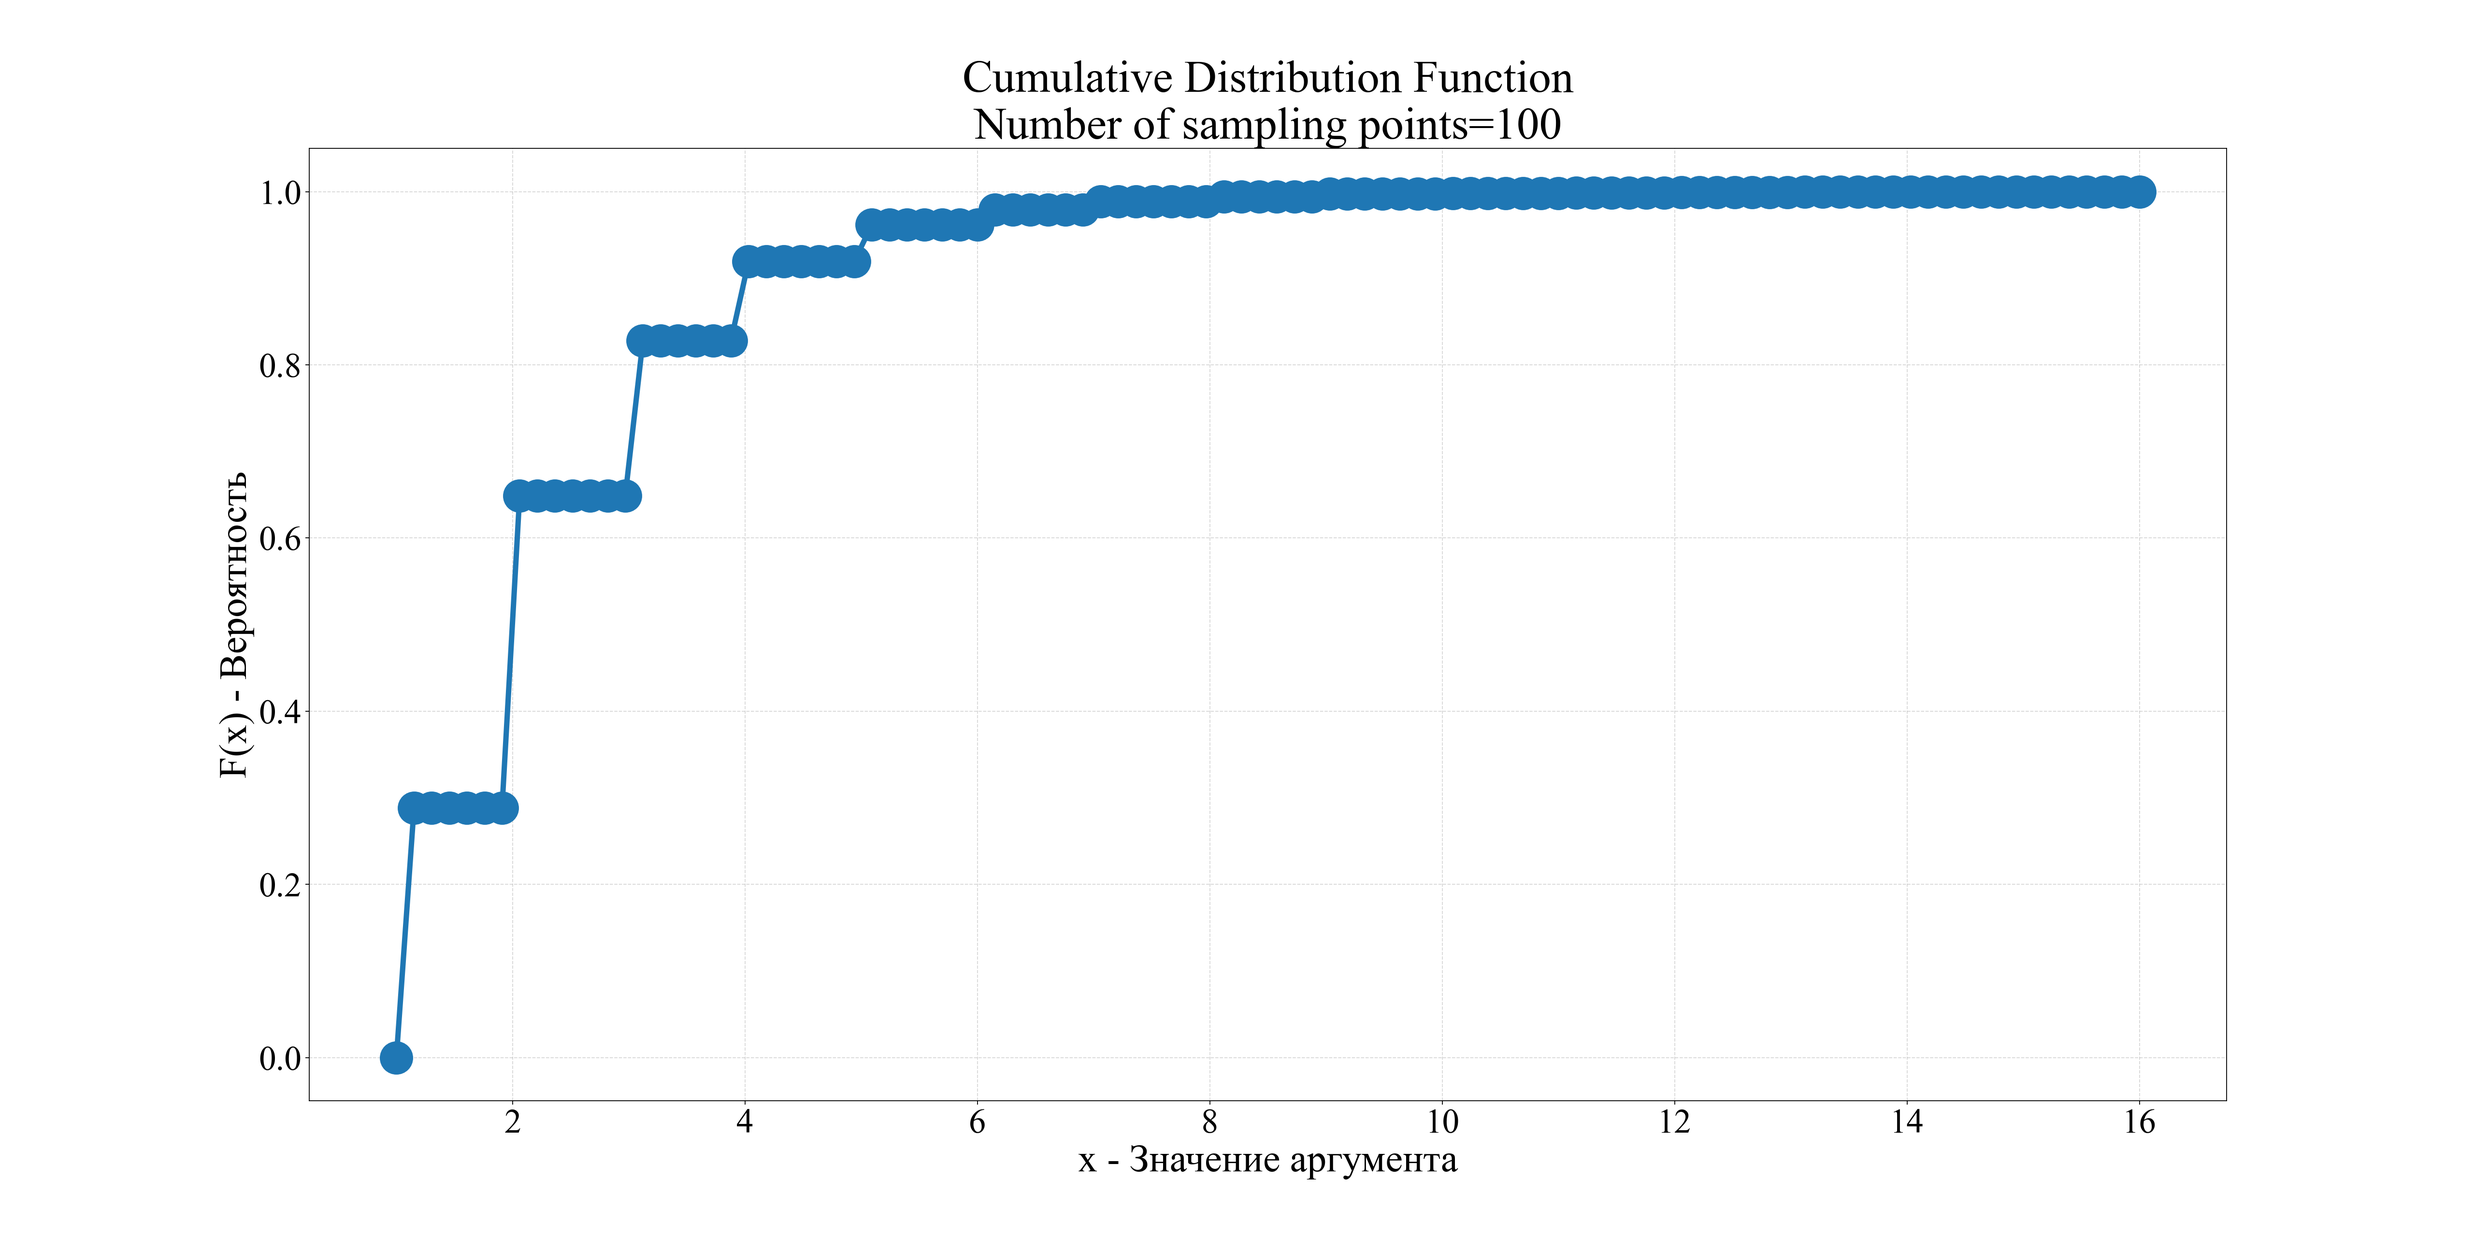
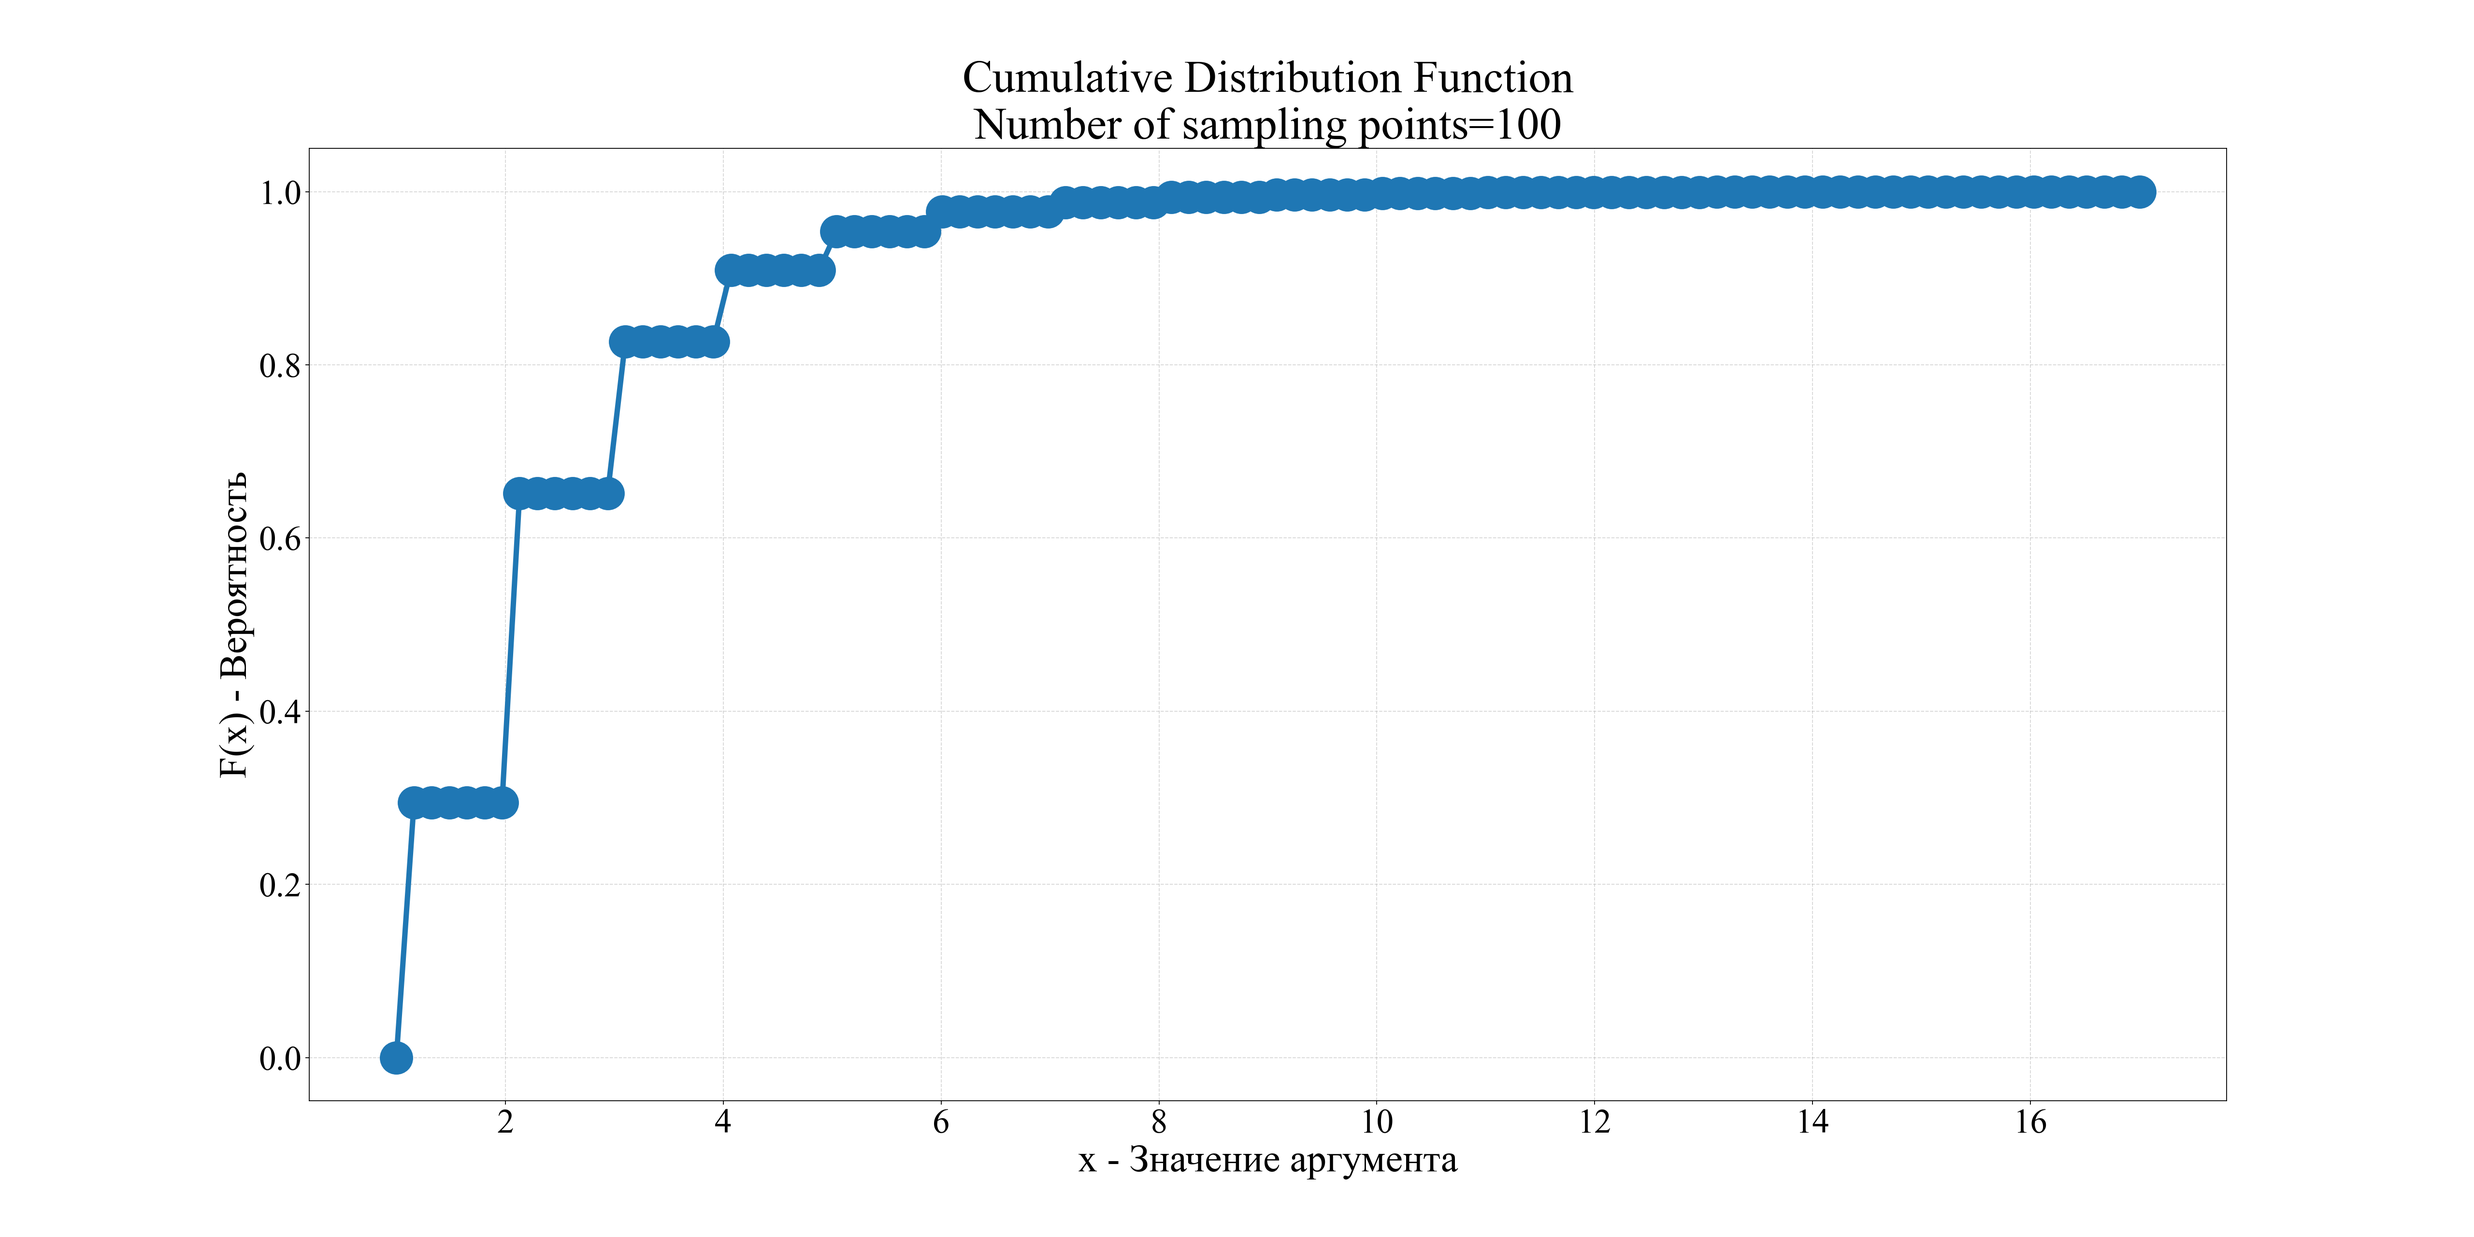
增加 统计划分

Changed region(s): [[0.25, 0.1562, 0.4375, 0.3438], [0.1562, 0.625, 0.2188, 0.6875], [0.25, 0.375, 0.2812, 0.4062]]

diff --git a/003 - lab2+/st_method.py b/003 - lab2+/st_method.py
@@ -1,0 +1,203 @@
+# ------*------ coding: utf-8 ------*------
+# @Time    : 2022/2/13 20:29
+# @Author  : 冰糖雪狸 (NekoSilverfox)
+# @Project : Statistica-model
+# @File    : main.py
+# @Software: PyCharm
+# @Github  ：https://github.com/NekoSilverFox
+# -----------------------------------------
+
+import numpy as np
+from matplotlib import pyplot as plt
+
+TITLE_FONT_SIZE = 42
+LABEL_FONT_SIZE = 36
+TICK_FONT_SIZE = 32
+FONT = 'Times New Roman'
+
+
+def autocorrelation(ndarry: np.ndarray) -> np.ndarray:
+    """
+    计算自相关系数，并返回对应数组
+    :param ndarry:要计算的数组
+    :return: 自相关系数的 ndarry
+    """
+    if ndarry is None or ndarry.size == 0:
+        print('Array can not be empty')
+        return None
+
+    denominator = ndarry.var() * ndarry.size  # 分母
+    M = ndarry.mean()  # 方差
+    size = ndarry.size
+    arr_auto = []
+    for f in range(1, size):
+        numerator = sum((ndarry[:size - f] - M) * (ndarry[f:] - M))  # 分子
+        arr_auto.append(numerator / denominator)
+
+    # print(np.array(arr_auto))
+    return np.array(arr_auto)
+
+
+def plot_autocorrelation(ndarry: np.ndarray) -> np.ndarray:
+    """
+    绘制 autocorrelation ndarry 的为柱状图
+    :param ndarry: 数组
+    :return: None
+    """
+    if ndarry is None or ndarry.size == 0:
+        print('Array can not be empty')
+        return None
+
+    x = range(1, ndarry.size + 1, 1)
+    plt.figure(figsize=(32, 16), dpi=160)
+    print(len(x))
+    print(ndarry)
+    plt.bar(x, ndarry)
+
+    plt.title('Autocorrelation    n=' + (ndarry.size + 1).__str__(),
+              fontdict={'family': FONT, 'size': TITLE_FONT_SIZE})
+    plt.xlabel('f', fontdict={'family': FONT, 'size': LABEL_FONT_SIZE})
+    plt.ylabel('K(f)', fontdict={'family': FONT, 'size': LABEL_FONT_SIZE})
+    plt.xticks(fontproperties=FONT, size=TICK_FONT_SIZE)
+    plt.yticks(fontproperties=FONT, size=TICK_FONT_SIZE)
+    # y_ticks = np.linspace(start=-1.0, stop=1.0, num=20)
+    # plt.yticks(y_ticks)
+    plt.grid(linestyle='--', alpha=0.5)
+
+    plt.savefig('./result/' + (ndarry.size + 1).__str__() + '.png')
+    plt.show()
+
+
+def get_cdf(ndarry: np.ndarray) -> np.ndarray:
+    """
+    累积分布函数（英语：Cumulative Distribution Function、CDF），又叫分布函数，是概率密度函数的积分，能完整描述一个实随机变量X的概率分布。
+    F(x)是分布函数，F(x)的取值表示变量小于 x 的概率是多少。比如说 F(x)=0.85，x=0.7，那么意思是随机变量小于 0.7 的概率为 0.85
+
+    Ru：Эмпирическая интегральная функция распределения
+    :param ndarry: 变量值数组
+    :return: 构建的分布函数 cdf ndarry
+    """
+    if ndarry is None or ndarry.size == 0:
+        print('Array can not be empty')
+        return None
+
+    arr_cdf = []
+    arr_step = np.linspace(start=ndarry.min(), stop=ndarry.max(), num=100)
+    for i in arr_step:
+        arr_cdf.append(np.count_nonzero(ndarry < i) / ndarry.size)
+
+    # print(arr_cdf)
+    return np.array(arr_cdf)
+
+
+def plot_cdf(cdf_ndarry: np.ndarray, kind: str, x_tick_min: int, x_tick_max: int, save_path: str):
+    """
+    绘制 cdf 为散点图
+    :param cdf_ndarry:  cdf ndarry
+    :param kind: 绘制图像的类型，可以为 plot | scatter | bar
+    :param x_tick_min: x 轴坐标的最小值（应该最初数组的最小值）
+    :param x_tick_max: x 轴坐标的最大值（应该最初数组的最大值）
+    :param save_path: 图像存储路径
+    :return: None
+    """
+
+    if cdf_ndarry is None or cdf_ndarry.size == 0:
+        print('Array can not be empty')
+        return None
+
+    x = np.linspace(start=x_tick_min, stop=x_tick_max, num=100)
+    plt.figure(figsize=(32, 16), dpi=160)
+
+    if kind == 'plot':
+        plt.plot(x, cdf_ndarry, linewidth=5, marker='o', markersize=30)
+    elif kind == 'scatter':
+        plt.scatter(x, cdf_ndarry, s=300)
+    elif kind == 'bar':
+        plt.bar(x, cdf_ndarry)
+    else:
+        print('`kind` should be plot | scatter | bar')
+        return
+
+    plt.title('Cumulative Distribution Function\n'
+              'Number of sampling points=' + cdf_ndarry.size.__str__(),
+              fontdict={'family': FONT, 'size': TITLE_FONT_SIZE})
+    plt.xlabel('x - Значение аргумента', fontdict={'family': FONT, 'size': LABEL_FONT_SIZE})
+    plt.ylabel('F(x) - Вероятность', fontdict={'family': FONT, 'size': LABEL_FONT_SIZE})
+    plt.xticks(fontproperties=FONT, size=TICK_FONT_SIZE)
+    plt.yticks(fontproperties=FONT, size=TICK_FONT_SIZE)
+    plt.grid(linestyle='--', alpha=0.5)
+
+    plt.savefig(save_path)
+    plt.show()
+
+
+def get_pdf(ndarry: np.ndarray, cut_num: int) -> np.ndarray:
+    """ 获取概率密度函数的 ndarry
+    在数学中，连续型随机变量的概率密度函数（Probability density function，简写作PDF [1]），
+    在不致于混淆时可简称为密度函数，是一个描述这个随机变量的输出值，在某个确定的取值点附近的可能性的函数。
+    图中，横轴为随机变量的取值，纵轴为概率密度函数的值，而随机变量的取值落在某个区域内的概率为概率密度函数
+    在这个区域上的积分。当概率密度函数存在的时候，累积分布函数是概率密度函数的积分
+
+    f(x)是概率密度函数，定义是取值落在某个区域之内的概率则为概率密度函数在这个区域上的积分
+
+    :param cut_num: 切片为几个区间
+    :param ndarry: ndarry: 变量值数组
+    :return: 构建的分布函数 pdf ndarry
+    """
+    if ndarry is None or ndarry.size == 0:
+        print('Array can not be empty')
+        return None
+
+    arr_pdf = []
+    arr_step = np.linspace(start=ndarry.min(), stop=ndarry.max(), num=cut_num)
+    for i in range(cut_num - 1):
+        arr_pdf.append(
+            np.count_nonzero(np.logical_and(ndarry > arr_step[i], ndarry < arr_step[i + 1])) / ndarry.size)
+
+    print(arr_pdf)
+    return np.array(arr_pdf)
+
+
+def plot_pdf(pdf_ndarry: np.ndarray, kind: str, x_tick_min: int, x_tick_max: int,
+             y_tick_min: int, y_tick_max: int, cut_num: int, save_path: str):
+    """
+    绘制 cdf 为图
+    :param pdf_ndarry: pdf ndarry
+    :param kind: 绘制图像的类型，可以为 plot | scatter | bar
+    :param x_tick_min: x 轴坐标的最小值（应该最初数组的最小值）
+    :param x_tick_max: x 轴坐标的最大值（应该最初数组的最大值）
+    :param y_tick_min: y 轴坐标的最小值（应该最初数组的最小值）
+    :param y_tick_max: y 轴坐标的最大值（应该最初数组的最大值）
+    :param cut_num: 切片为几个区间
+    :param save_path: 图像存储路径
+    :return: None
+    """
+
+    if pdf_ndarry is None or pdf_ndarry.size == 0:
+        print('Array can not be empty')
+        return None
+
+    x = np.linspace(start=x_tick_min, stop=x_tick_max, num=cut_num - 1)
+    plt.figure(figsize=(32, 16), dpi=160)
+
+    if kind == 'plot':
+        plt.plot(x, pdf_ndarry, linewidth=5, marker='o', markersize=30)
+    elif kind == 'scatter':
+        plt.scatter(x, pdf_ndarry, s=300)
+    elif kind == 'bar':
+        plt.bar(x, pdf_ndarry)
+    else:
+        print('`kind` should be plot | scatter | bar')
+        return
+
+    plt.ylim(y_tick_min, y_tick_max)
+    plt.title('Probability Density Function\nInterval number=' + pdf_ndarry.size.__str__(),
+              fontdict={'family': FONT, 'size': TITLE_FONT_SIZE})
+    plt.xticks(fontproperties=FONT, size=TICK_FONT_SIZE)
+    plt.yticks(fontproperties=FONT, size=TICK_FONT_SIZE)
+    plt.xlabel('x - Значение аргумента', fontdict={'family': FONT, 'size': LABEL_FONT_SIZE})
+    plt.ylabel('f(x) - Вероятность', fontdict={'family': FONT, 'size': LABEL_FONT_SIZE})
+    plt.grid(linestyle='--', alpha=0.5)
+
+    plt.savefig(save_path)
+    plt.show()

diff --git a/003 - lab2+/main.py b/003 - lab2+/main.py
@@ -8,8 +8,11 @@
 # -----------------------------------------
 
 import numpy as np
+import pandas as pd
 import matplotlib.pyplot as plt
 from scipy.stats import chisquare
+from scipy import stats
+import st_method
 import math
 
 
@@ -50,7 +53,7 @@ def irnpoi(mu: int, size: int) -> np.ndarray:
 
 def irnpsn(mu: int, size: int) -> np.ndarray:
     """
-    【2.4.1】泊松分布（算法 1）
+    【2.4.2】泊松分布（算法 2）
     :param mu: int 类型
     :param size: 数组大小
     :return: 具有泊松分布的 numpy.ndarry
@@ -77,6 +80,23 @@ def irnpsn(mu: int, size: int) -> np.ndarray:
     return np.array(arr_irnpsn)
 
 
+def get_hist_arr(arr: np.ndarray, arr_cut_value: np.ndarray):
+    """
+    根据传入的数值数组进行分隔并统计分布数量
+    :param arr: 数组
+    :param arr_cut_value: 要分隔的区间数组；比如：[0, 3, 5, 8] 则统计：[0, 3), [3, 5), [5, 8)
+    :return: 统计结束后的数组
+    """
+    if arr is None or arr_cut_value is None:
+        raise ValueError
+
+    return pd.cut(x=arr, bins=arr_cut_value).value_counts().values
+
+
+
+
+
+
 def plot_poisson_hist(arr_poisson: np.ndarray, save_path: str):
     """
     绘制直方图并保存
@@ -88,7 +108,7 @@ def plot_poisson_hist(arr_poisson: np.ndarray, save_path: str):
     plt.hist(x=arr_poisson, bins=10, density=True)
     plt.grid(linestyle='--', alpha=0.5)
     plt.title('Закон Пуассона \n'
-              'λ=4 size=100',
+              'λ=4 Size=100 Section=10',
               fontdict={'family': FONT, 'size': TITLE_FONT_SIZE})
     plt.xlabel('x', fontdict={'family': FONT, 'size': LABEL_FONT_SIZE})
     plt.ylabel('P(x)', fontdict={'family': FONT, 'size': LABEL_FONT_SIZE})
@@ -101,25 +121,54 @@ def plot_poisson_hist(arr_poisson: np.ndarray, save_path: str):
 
 if __name__ == '__main__':
 
-    print('>' * 50, '\nirnpoi(mu=4, size=100):')
-    arr_poi = irnpoi(mu=4, size=100)
-    print('\tmin: ', arr_poi.min(), '\n\tmax: ', arr_poi.max())
+    print('numpy 泊松分布：')
+    arr_obs_poisson = np.random.poisson(lam=4, size=100)
+    pd.Series(arr_obs_poisson).sort_values().plot(kind='hist')
 
-    chi_2 = chisquare(arr_poi)
-    print('chi_2: ', chi_2[0])
+    arr_obs_hist = get_hist_arr(arr=arr_obs_poisson, arr_cut_value=np.array(range(16)))  # [0, 16)
 
-    plot_poisson_hist(arr_poisson=arr_poi,
-                      save_path='./result/1_irnpoi.png')
+    print('-' * 50)
+
+
+
+
+
+
+
+
+
+
+
+
+
+
+    #
+    # print('>' * 50, '\nirnpoi(mu=4, size=100):')
+    #
+    # crit = stats.chi2.ppf(q=0.05,
+    #                       df=9)
+    # print('临界值：', crit)
+    #
+    # arr_poi = irnpoi(mu=4, size=100)
+    # print('\tmin: ', arr_poi.min(), '\n\tmax: ', arr_poi.max())
+    #
+    # arr_pdf = st_method.get_pdf(arr_poi, cut_num=10)
+    # # chi_2 = chisquare(f_obs=arr_poi)
+    # chi_2 = chisquare(f_obs=arr_pdf)
+    # print('chi_2: ', chi_2)
+    #
+    # plot_poisson_hist(arr_poisson=arr_poi,
+    #                   save_path='./result/1_irnpoi.png')
 
     ############################################################################
-    print('\n\n', '>' * 50, '\nirnpoi(mu=4, size=100):')
-    arr_psn = irnpsn(mu=4, size=100)
-    print('\tmin: ', arr_psn.min(), '\n\tmax: ', arr_psn.max())
-
-    chi_2 = chisquare(arr_psn)
-    print('chi_2: ', chi_2[0])
-
-    plot_poisson_hist(arr_poisson=arr_psn,
-                      save_path='./result/2_irnpsn.png')
+    # print('\n\n', '>' * 50, '\nirnpoi(mu=4, size=100):')
+    # arr_psn = irnpsn(mu=4, size=100)
+    # print('\tmin: ', arr_psn.min(), '\n\tmax: ', arr_psn.max())
+    #
+    # chi_2 = chisquare(arr_psn)
+    # print('chi_2: ', chi_2[0])
+    #
+    # plot_poisson_hist(arr_poisson=arr_psn,
+    #                   save_path='./result/2_irnpsn.png')
 
     pass

diff --git a/002 - lab2/main.py b/002 - lab2/main.py
@@ -166,29 +166,29 @@ def poisson_distribution(arr_poisson: np.ndarray, img_save_fold: str):
 
 
 if __name__ == '__main__':
-    # 【2.1】РАВНОМЕРНОЕ РАСПРЕДЕЛЕНИЕ (дискретное)
-    uniform_distribution()
-
-    # 【2.2】БИНОМИАЛЬНОЕ РАСПРЕДЕЛЕНИЕ
-    binomial_distribution()
-
-    # 【2.3.1】ГЕОМЕТРИЧЕСКОЕ РАСПРЕДЕЛЕНИЕ (Алгоритм 1)
-    geometric_distribution(arr_geometric=irandom.irngeo_1(p=0.5, size=10000),
-                           img_save_fold='./result/【2.3.1】Geometric distribution/')
-
-    # 【2.3.2】ГЕОМЕТРИЧЕСКОЕ РАСПРЕДЕЛЕНИЕ (Алгоритм 2)
-    geometric_distribution(arr_geometric=irandom.irngeo_2(p=0.5, size=10000),
-                           img_save_fold='./result/【2.3.2】Geometric distribution/')
-
-    # 【2.3.3】ГЕОМЕТРИЧЕСКОЕ РАСПРЕДЕЛЕНИЕ (Алгоритм 3)
+    # # 【2.1】РАВНОМЕРНОЕ РАСПРЕДЕЛЕНИЕ (дискретное)
+    # uniform_distribution()
+    #
+    # # 【2.2】БИНОМИАЛЬНОЕ РАСПРЕДЕЛЕНИЕ
+    # binomial_distribution()
+    #
+    # # 【2.3.1】ГЕОМЕТРИЧЕСКОЕ РАСПРЕДЕЛЕНИЕ (Алгоритм 1)
+    # geometric_distribution(arr_geometric=irandom.irngeo_1(p=0.5, size=10000),
+    #                        img_save_fold='./result/【2.3.1】Geometric distribution/')
+    #
+    # # 【2.3.2】ГЕОМЕТРИЧЕСКОЕ РАСПРЕДЕЛЕНИЕ (Алгоритм 2)
+    # geometric_distribution(arr_geometric=irandom.irngeo_2(p=0.5, size=10000),
+    #                        img_save_fold='./result/【2.3.2】Geometric distribution/')
+    #
+    # # 【2.3.3】ГЕОМЕТРИЧЕСКОЕ РАСПРЕДЕЛЕНИЕ (Алгоритм 3)
     geometric_distribution(arr_geometric=irandom.irngeo_3(p=0.5, size=10000),
                            img_save_fold='./result/【2.3.3】Geometric distribution/')
-
-    # 【2.4.1】РАСПРЕДЕЛЕНИЕ ПУАССОНА (Алгоритм 1)
-    poisson_distribution(arr_poisson=irandom.irnpoi(mu=10, size=10000),
-                         img_save_fold='./result/【2.4.1】Poisson distribution/')
-
-    # 【2.4.2】РАСПРЕДЕЛЕНИЕ ПУАССОНА (Алгоритм 2)
+    #
+    # # 【2.4.1】РАСПРЕДЕЛЕНИЕ ПУАССОНА (Алгоритм 1)
+    # poisson_distribution(arr_poisson=irandom.irnpoi(mu=10, size=10000),
+    #                      img_save_fold='./result/【2.4.1】Poisson distribution/')
+    #
+    # # 【2.4.2】РАСПРЕДЕЛЕНИЕ ПУАССОНА (Алгоритм 2)
     poisson_distribution(arr_poisson=irandom.irnpsn(mu=10, size=10000),
                          img_save_fold='./result/【2.4.2】Poisson distribution/')
 
